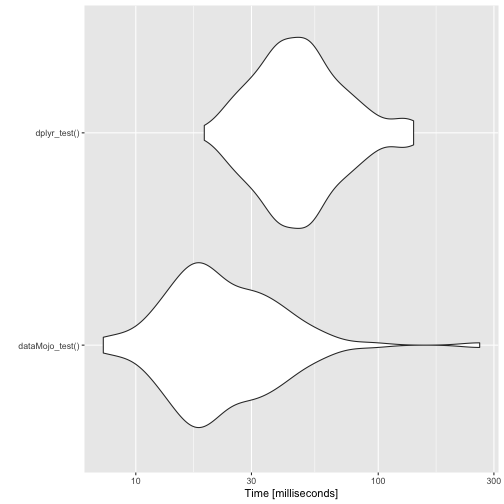
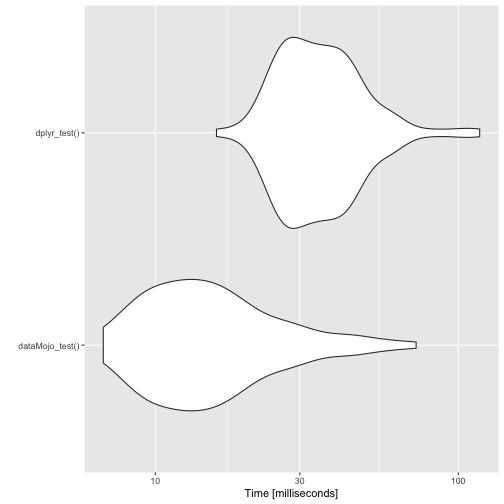
add slides

diff --git a/R_Chinese_Conf.html b/R_Chinese_Conf.html
@@ -46,6 +46,16 @@ class: middle
 
 ---
 
+# shiny应用 &lt;img src="www/dataMojo.png"  width="100px" align="right"/&gt;
+
+
+https://github.com/jienagu/demo_mojo_app
+
+
+&lt;img src="www/dataMojo_demo.gif"  width="800px" align="center"/&gt;
+
+---
+
 # 计算每行的百分比: `dataMojo`  &lt;img src="www/dataMojo.png"  width="100px" align="right"/&gt;
 
 Github repo: https://github.com/jienagu/dataMojo
@@ -591,11 +601,11 @@ print(res_group)
 ```
 ## Unit: milliseconds
 ##             expr       min       lq     mean   median       uq
-##  dataMojo_test()  7.344716 16.33156 27.48338 20.79464 31.52734
-##     dplyr_test() 19.164815 36.48314 52.15989 46.52692 58.84572
-##       max neval cld
-##  262.1225   100  a 
-##  139.9222   100   b
+##  dataMojo_test()  6.735508 10.13864 17.50270 14.21500 19.24077
+##     dplyr_test() 15.920172 26.98940 37.17702 33.48305 43.33312
+##        max neval cld
+##   72.58502   100  a 
+##  117.67550   100   b
 ```
 
 
